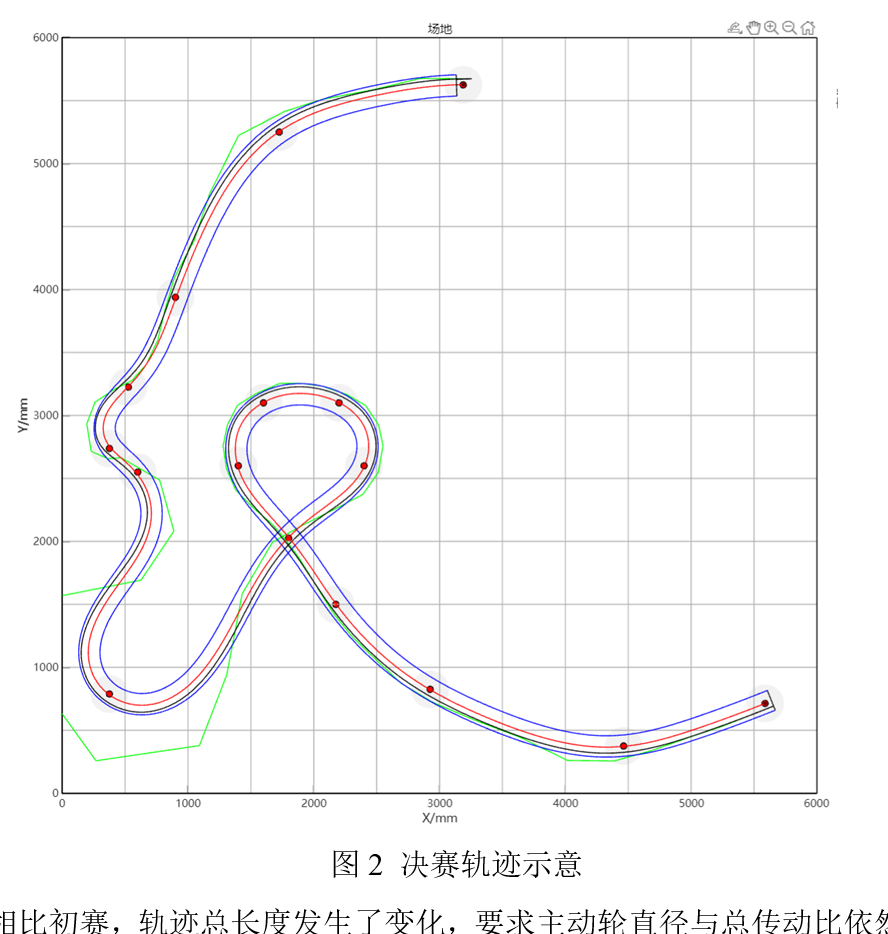
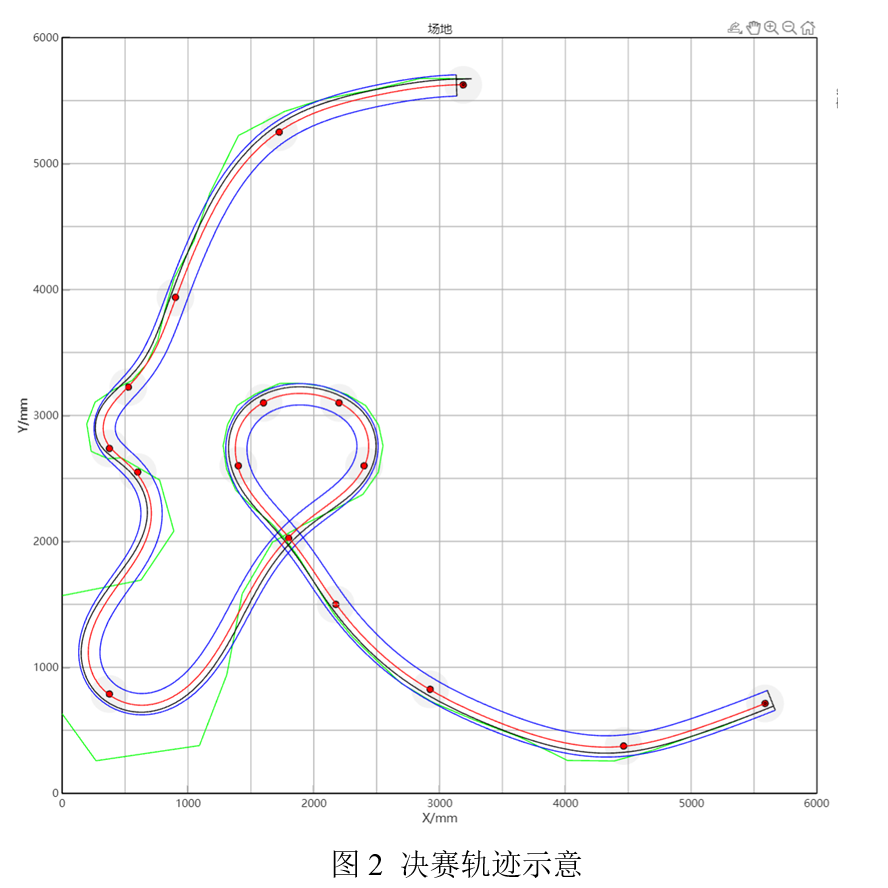
za2

diff --git a/_projects/8_project.md b/_projects/8_project.md
@@ -1,81 +1,36 @@
 ---
 layout: page
-title: project 8
-description: an other project with a background image and giscus comments
-img: assets/img/9.jpg
-importance: 2
+title: XHand主动外骨骼
+description: 基于开源项目DexUMI,核心目标为实现主从转换DAgger
+img: assets/img/塞北箭.png
+importance: 1
 category: work
-giscus_comments: true
 ---
 
-Every project has a beautiful feature showcase page.
-It's easy to include images in a flexible 3-column grid format.
-Make your photos 1/3, 2/3, or full width.
+### 项目概述
+基于DexUMI的开源项目，本项目为XHand灵巧收的外骨骼添加了12个主动自由度。通过直驱与锥齿轮传动的结合，实现了手部外骨骼的主动驱动。在需要专家介入遥操时，外骨骼设备可直接运动至手部同一位置，实现丝滑接管。项目在清华大学智能产业研究院（AIR）完成，由智源学者赵昊指导。
 
-To give your project a background in the portfolio page, just add the img tag to the front matter like so:
+### 核心创新
+1. **轴向错位双连杆传动**：设计了一套新型的传动机构，可完全规避连杆死点，将小腿运动范围提升至普通四足机器人的两倍。
+2. **可靠快拆设计**：设计径向拆装结构，综合PPA FDM技术、TC4钛合金SLS技术实现多材料整合。
+3. **强化运控**：针对高运动性能需求，部署强化学习的策略进行上游运动控制。
 
-    ---
-    layout: page
-    title: project
-    description: a project with a background image
-    img: /assets/img/12.jpg
-    ---
-
+### 实物展示
 <div class="row">
     <div class="col-sm mt-3 mt-md-0">
-        {% include figure.liquid loading="eager" path="assets/img/1.jpg" title="example image" class="img-fluid rounded z-depth-1" %}
-    </div>
-    <div class="col-sm mt-3 mt-md-0">
-        {% include figure.liquid loading="eager" path="assets/img/3.jpg" title="example image" class="img-fluid rounded z-depth-1" %}
-    </div>
-    <div class="col-sm mt-3 mt-md-0">
-        {% include figure.liquid loading="eager" path="assets/img/5.jpg" title="example image" class="img-fluid rounded z-depth-1" %}
-    </div>
+        {% include figure.liquid loading="eager" path="assets/img/腿姿变换.png" title="机器人可实现的四种腿部姿态" class="img-fluid rounded z-depth-1" %}
+    </div>    
 </div>
+
 <div class="caption">
-    Caption photos easily. On the left, a road goes through a tunnel. Middle, leaves artistically fall in a hipster photoshoot. Right, in another hipster photoshoot, a lumberjack grasps a handful of pine needles.
-</div>
-<div class="row">
-    <div class="col-sm mt-3 mt-md-0">
-        {% include figure.liquid loading="eager" path="assets/img/5.jpg" title="example image" class="img-fluid rounded z-depth-1" %}
-    </div>
-</div>
-<div class="caption">
-    This image can also have a caption. It's like magic.
+    Comparison of Joint Configurations for Quadrupedal Locomotion
 </div>
 
-You can also put regular text between your rows of images.
-Say you wanted to write a little bit about your project before you posted the rest of the images.
-You describe how you toiled, sweated, _bled_ for your project, and then... you reveal its glory in the next row of images.
+### 获得奖项
+* **2025.05** 国家级大学生创新训练项目立项
+* **2025.07** 全国大学生机器人大赛 ROBOCON 仿生足式机器人挑战赛全国二等奖（竞速赛、障碍赛、越野赛）
 
-<div class="row justify-content-sm-center">
-    <div class="col-sm-8 mt-3 mt-md-0">
-        {% include figure.liquid path="assets/img/6.jpg" title="example image" class="img-fluid rounded z-depth-1" %}
-    </div>
-    <div class="col-sm-4 mt-3 mt-md-0">
-        {% include figure.liquid path="assets/img/11.jpg" title="example image" class="img-fluid rounded z-depth-1" %}
-    </div>
-</div>
-<div class="caption">
-    You can also have artistically styled 2/3 + 1/3 images, like these.
-</div>
+---
 
-The code is simple.
-Just wrap your images with `<div class="col-sm">` and place them inside `<div class="row">` (read more about the <a href="https://getbootstrap.com/docs/4.4/layout/grid/">Bootstrap Grid</a> system).
-To make images responsive, add `img-fluid` class to each; for rounded corners and shadows use `rounded` and `z-depth-1` classes.
-Here's the code for the last row of images above:
-
-{% raw %}
-
-```html
-<div class="row justify-content-sm-center">
-  <div class="col-sm-8 mt-3 mt-md-0">
-    {% include figure.liquid path="assets/img/6.jpg" title="example image" class="img-fluid rounded z-depth-1" %}
-  </div>
-  <div class="col-sm-4 mt-3 mt-md-0">
-    {% include figure.liquid path="assets/img/11.jpg" title="example image" class="img-fluid rounded z-depth-1" %}
-  </div>
-</div>
-```
-
-{% endraw %}
+### 🛠 技术文档
+* [中南大学EK四足机器人技术文档（2025.3-2025.7）](/assets/pdf/中南大学EK四足机器人技术文档（2025.3-2025.7）.pdf)

diff --git a/_projects/7_project.md b/_projects/7_project.md
@@ -23,7 +23,7 @@ category: work
 </div>
 
 <div class="caption">
-    项目演示视频：八自由度并联四足机器人性能展示。
+    Comparison of Joint Configurations for Quadrupedal Locomotion
 </div>
 
 ### 获得奖项
